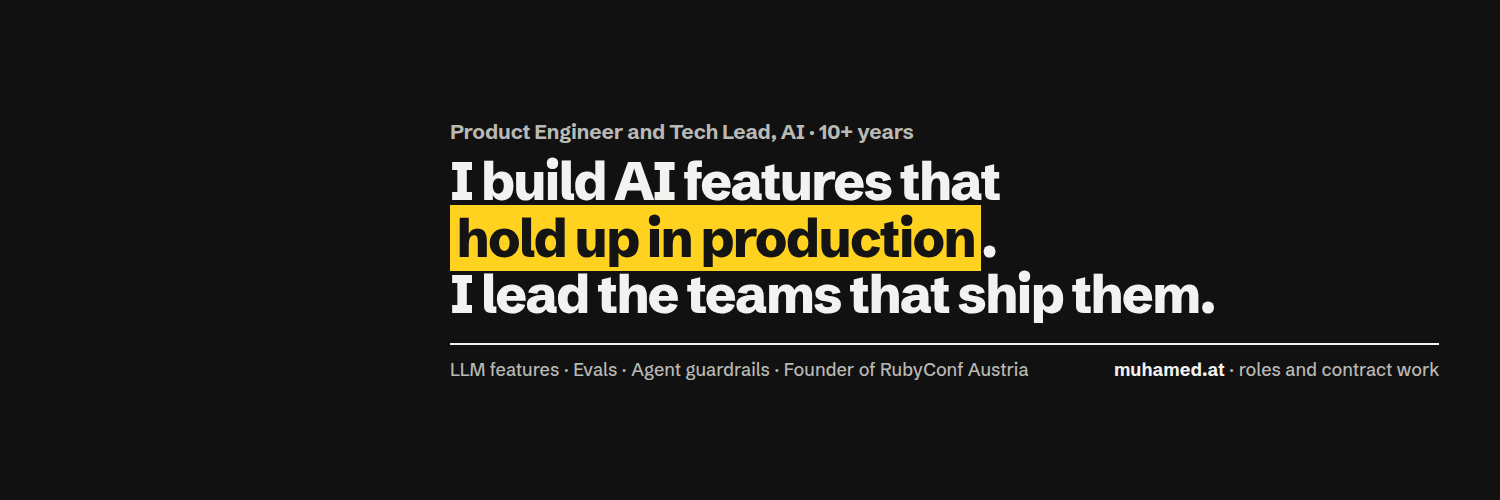
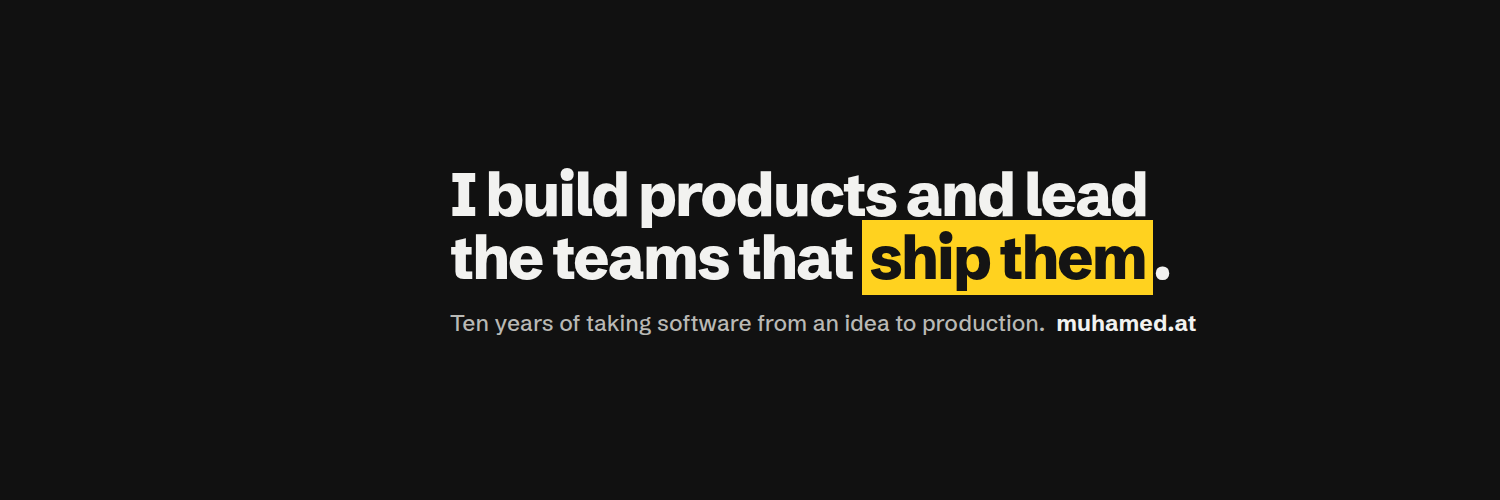
site: the header says one thing, in plain words: products, teams, shipping
Implements ADR professional-homepage-with-brain-and-writing.

Changed region(s): [[0.276, 0.24, 0.9507, 0.69], [0.3067, 0.72, 0.7053, 0.78], [0.736, 0.72, 0.9813, 0.75]]

diff --git a/.github/scripts/render-social-images.js b/.github/scripts/render-social-images.js
@@ -70,32 +70,24 @@ function share(w, h) {
   </div>`;
 }
 
-// Profile headers: one design for LinkedIn and X, written for hiring
-// managers and clients alike. Both networks put the avatar over the
-// bottom-left and crop the edges on phones, so the copy sits right of
-// safeLeft and away from the top and bottom.
-function header(w, h, safeLeft, theme) {
+// Profile headers: one dark design for LinkedIn and X. One idea, in the
+// owner's words (2026-09-29): ownership, not a list of roles or clients.
+// Both networks put the avatar over the bottom-left and crop the edges on
+// phones, so the copy sits right of safeLeft and away from top and bottom.
+function header(w, h, safeLeft) {
   const u = w / 1584;
-  const dark = theme === 'dark';
-  const fg = dark ? 'var(--on-dark)' : 'var(--ink)';
-  const fg2 = dark ? 'var(--on-dark-2)' : 'var(--ink-2)';
-  const hl = dark ? '<span class="hl-dark">hold up in production</span>' : '<mark>hold up in production</mark>';
-  return `<div class="stage" style="--w:${w}px;--h:${h}px;background:${dark ? 'var(--dark)' : 'var(--paper)'};color:${fg};display:flex;align-items:center;padding:0 ${64 * u}px 0 ${safeLeft}px">
-    <div style="width:100%">
-      <p style="font-size:${22 * u}px;font-weight:700;color:${fg2};letter-spacing:-.01em">Product Engineer and Tech Lead, AI · 10+ years</p>
-      <h1 style="font-size:${56 * u}px;line-height:1.06;margin-top:${10 * u}px">I build AI features that<br>${hl}.<br>I lead the teams that ship them.</h1>
-      <div style="display:flex;justify-content:space-between;align-items:baseline;gap:${24 * u}px;margin-top:${22 * u}px;padding-top:${14 * u}px;border-top:${Math.max(2, 3 * u)}px solid ${fg};font-size:${19 * u}px;font-weight:500;color:${fg2}">
-        <span>LLM features · Evals · Agent guardrails · Founder of RubyConf Austria</span>
-        <span style="white-space:nowrap"><b style="color:${fg}">muhamed.at</b> · roles and contract work</span>
-      </div>
+  return `<div class="stage" style="--w:${w}px;--h:${h}px;background:var(--dark);color:var(--on-dark);display:flex;align-items:center;padding:0 ${64 * u}px 0 ${safeLeft}px">
+    <div>
+      <h1 style="font-size:${64 * u}px;line-height:1.04">I build products and lead<br>the teams that <span class="hl-dark">ship them</span>.</h1>
+      <p style="margin-top:${22 * u}px;font-size:${24 * u}px;font-weight:500;color:var(--on-dark-2)">Ten years of taking software from an idea to production. &nbsp;<b style="color:var(--on-dark)">muhamed.at</b></p>
     </div>
   </div>`;
 }
 
 const jobs = [
   ['share.png', 1200, 630, share(1200, 630)],
-  ['linkedin-header.png', 1584, 396, header(1584, 396, 470, 'dark')],
-  ['x-header.png', 1500, 500, header(1500, 500, 450, 'dark')],
+  ['linkedin-header.png', 1584, 396, header(1584, 396, 470)],
+  ['x-header.png', 1500, 500, header(1500, 500, 450)],
   ...services.flatMap((s) => [
     [`service-${s.slug}-linkedin.png`, 1200, 627, servicePost(s, 1200, 627)],
     [`service-${s.slug}-x.png`, 1600, 900, servicePost(s, 1600, 900)],
